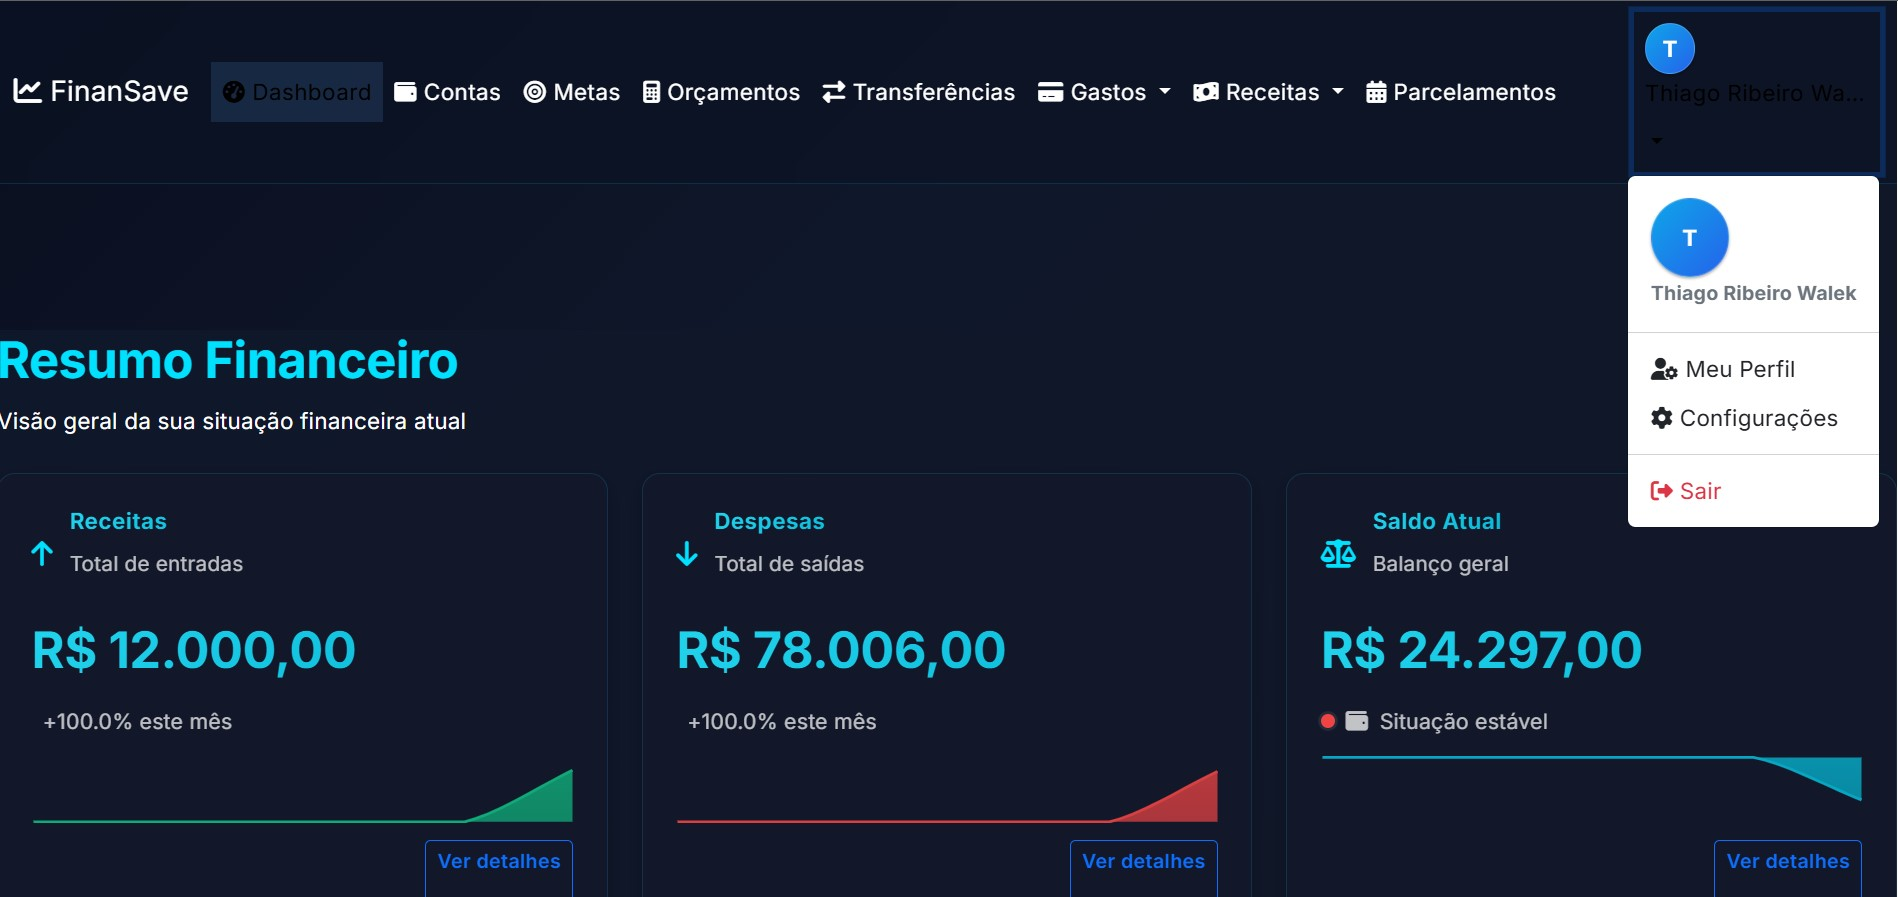
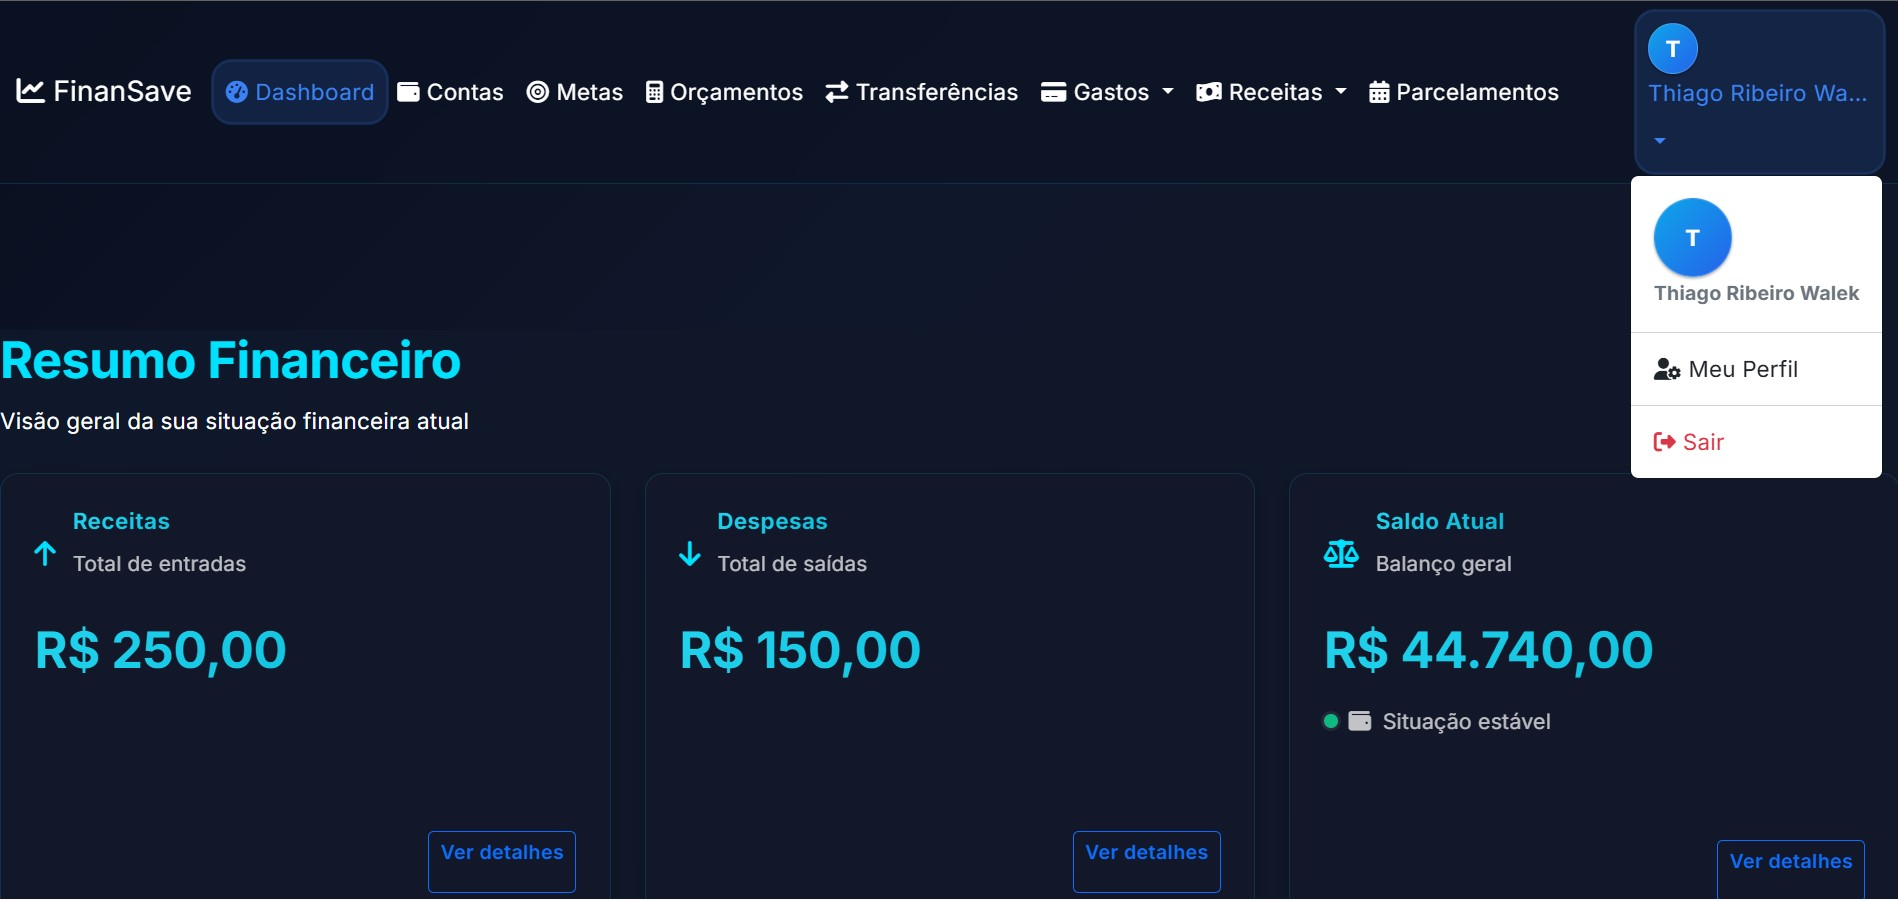
conta pode ser negativada

diff --git a/controllers/gastoController.js b/controllers/gastoController.js
@@ -17,6 +17,12 @@ const gastoController = {
                 whereClause.data_gasto = {
                     [Op.between]: [startDate, endDate]
                 };
+            } else if (ano) {
+                const startDate = new Date(ano, 0, 1);
+                const endDate = new Date(ano, 11, 31);
+                whereClause.data_gasto = {
+                    [Op.between]: [startDate, endDate]
+                };
             }
 
             if (categoria) {
@@ -26,14 +32,14 @@ const gastoController = {
             const gastos = await Gasto.findAll({
                 where: whereClause,
                 include: [
-                    { model: Conta, attributes: ['nome', 'tipo', 'saldo_atual'] }
+                    { model: Conta, attributes: ['nome', 'tipo', 'saldo_atual'], where: { ativa: true }, required: true }
                 ],
                 order: [['data_gasto', 'DESC']]
             });
 
             // Fallback robusto: buscar todas as contas do usuário para garantir nome da conta
             const contasDoUsuario = await Conta.findAll({
-                where: { usuario_id: req.session.user.id },
+                where: { usuario_id: req.session.user.id, ativa: true },
                 attributes: ['conta_id', 'nome', 'ativa']
             });
             const contasMap = new Map(contasDoUsuario.map(c => [c.conta_id, c]));
@@ -154,18 +160,7 @@ const gastoController = {
                 return res.render('gastos/criar', { contas });
             }
 
-            // Verifica se há saldo suficiente na conta
-            if (parseFloat(conta.saldo_atual) < parseFloat(valor)) {
-                const contas = await Conta.findAll({
-                    where: { 
-                        usuario_id: req.session.user.id,
-                        ativa: true
-                    },
-                    order: [['nome', 'ASC']]
-                });
-                req.session.error = `Saldo insuficiente na conta. Saldo disponível: R$ ${parseFloat(conta.saldo_atual).toFixed(2).replace('.', ',')}`;
-                return res.render('gastos/criar', { contas });
-            }
+            // Removido bloqueio por saldo insuficiente: permitir saldo negativo
 
             // Cria o gasto
             await Gasto.create({

diff --git a/controllers/receitaController.js b/controllers/receitaController.js
@@ -16,6 +16,12 @@ const receitaController = {
                 whereClause.data_receita = {
                     [Op.between]: [startDate, endDate]
                 };
+            } else if (ano) {
+                const startDate = new Date(ano, 0, 1);
+                const endDate = new Date(ano, 11, 31);
+                whereClause.data_receita = {
+                    [Op.between]: [startDate, endDate]
+                };
             }
 
             if (categoria) {
@@ -25,14 +31,14 @@ const receitaController = {
             const receitas = await Receita.findAll({
                 where: whereClause,
                 include: [
-                    { model: Conta, attributes: ['nome', 'tipo', 'saldo_atual'] }
+                    { model: Conta, attributes: ['nome', 'tipo', 'saldo_atual'], where: { ativa: true }, required: true }
                 ],
                 order: [['data_receita', 'DESC']]
             });
 
             // Fallback robusto: mapear contas do usuário para garantir nome da conta
             const contasDoUsuario = await Conta.findAll({
-                where: { usuario_id: req.session.user.id },
+                where: { usuario_id: req.session.user.id, ativa: true },
                 attributes: ['conta_id', 'nome', 'ativa']
             });
             const contasMap = new Map(contasDoUsuario.map(c => [c.conta_id, c]));
@@ -274,6 +280,16 @@ const receitaController = {
             if (!receita) {
                 req.session.error = 'Receita não encontrada.';
                 return res.redirect('/receitas/extrato');
+            }
+
+            // Fallback: se a associação da conta não vier, buscar pelo conta_id
+            if (!receita.Conta) {
+                const conta = await Conta.findOne({
+                    where: { conta_id: receita.conta_id, usuario_id: req.session.user.id }
+                });
+                if (conta) {
+                    receita.setDataValue('Conta', { nome: conta.nome, tipo: conta.tipo });
+                }
             }
 
             res.render('receitas/detalhe', { receita, currentPage: 'receitas' });

diff --git a/routes/contas.js b/routes/contas.js
@@ -14,8 +14,8 @@ const validacoesConta = [
         .isIn(['Corrente', 'Poupança', 'Investimento', 'Carteira', 'Cartão de Crédito', 'Outro'])
         .withMessage('Tipo de conta inválido'),
     body('saldo_atual')
-        .isFloat({ min: 0 })
-        .withMessage('O saldo deve ser um número positivo')
+        .isFloat()
+        .withMessage('Informe um saldo válido')
         .toFloat(),
     body('instituicao')
         .optional({ checkFalsy: true })
